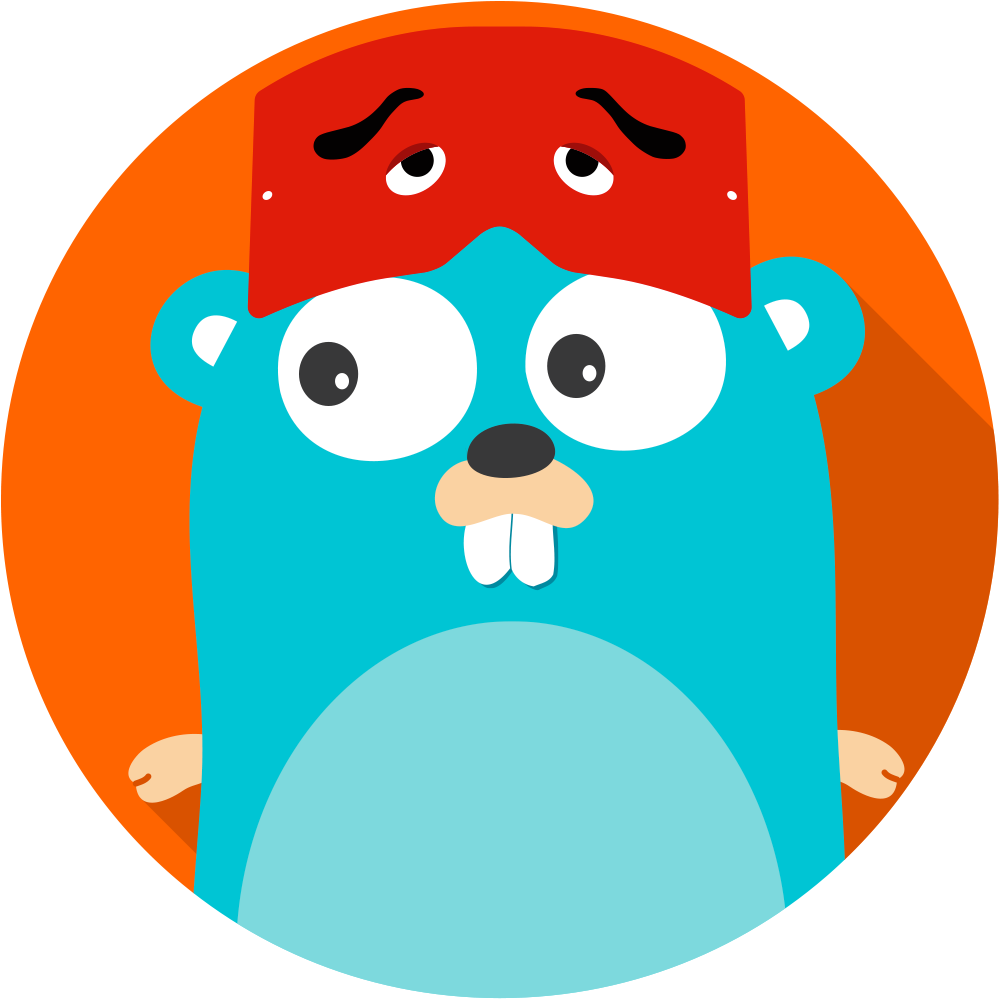
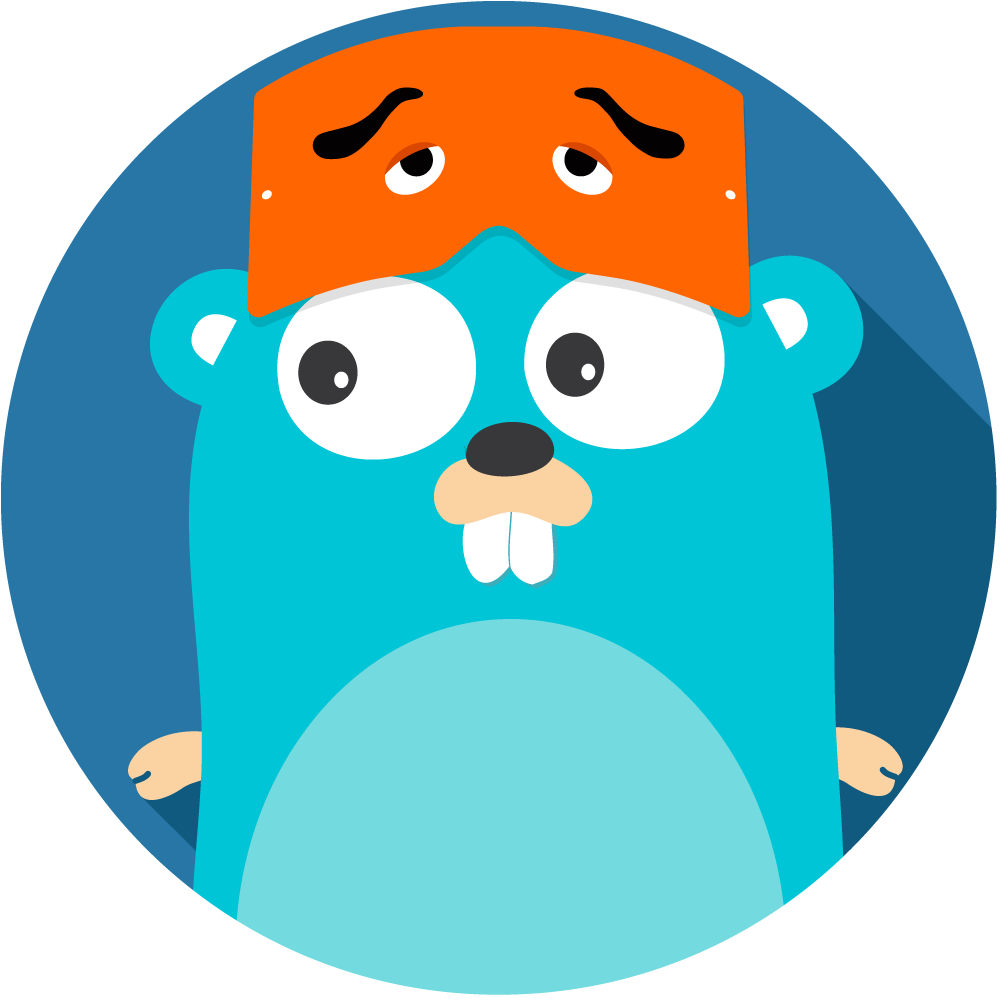
change gopher_niwaka

diff --git a/_jedie/styles/site.css b/_jedie/styles/site.css
@@ -12,7 +12,7 @@ a:hover { color: #2dd3fe; }
 #global-header a {
   color: #000;
   text-decoration: none;
-  background-image: url("/images/gopher_ramen.png");
+  background-image: url("/images/gopher_niwaka.png");
   background-size: 200px 200px;
   background-position: 0 0;
   background-repeat: no-repeat;

diff --git a/styles/site.css b/styles/site.css
@@ -12,7 +12,7 @@ a:hover { color: #2dd3fe; }
 #global-header a {
   color: #000;
   text-decoration: none;
-  background-image: url("/images/gopher_ramen.png");
+  background-image: url("/images/gopher_niwaka.png");
   background-size: 200px 200px;
   background-position: 0 0;
   background-repeat: no-repeat;
